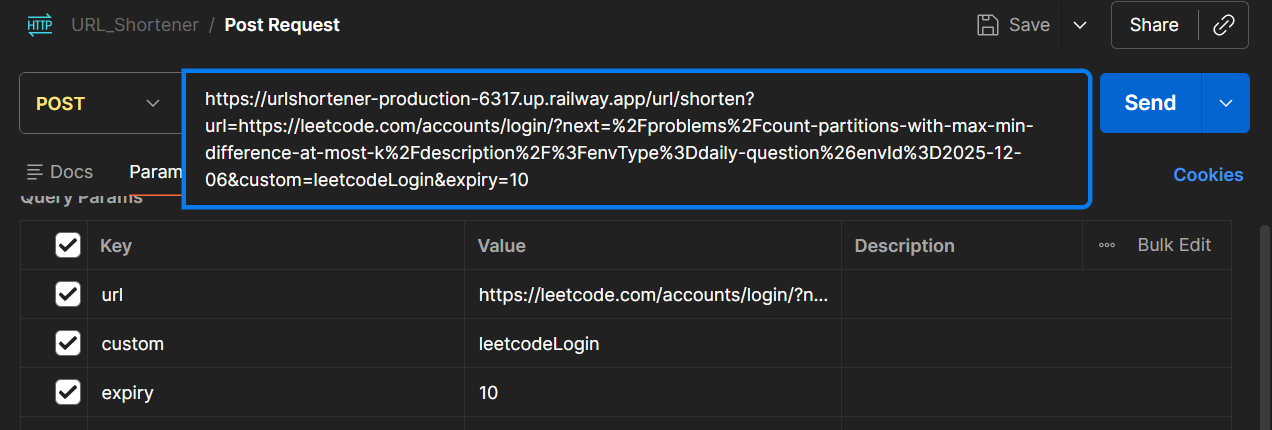
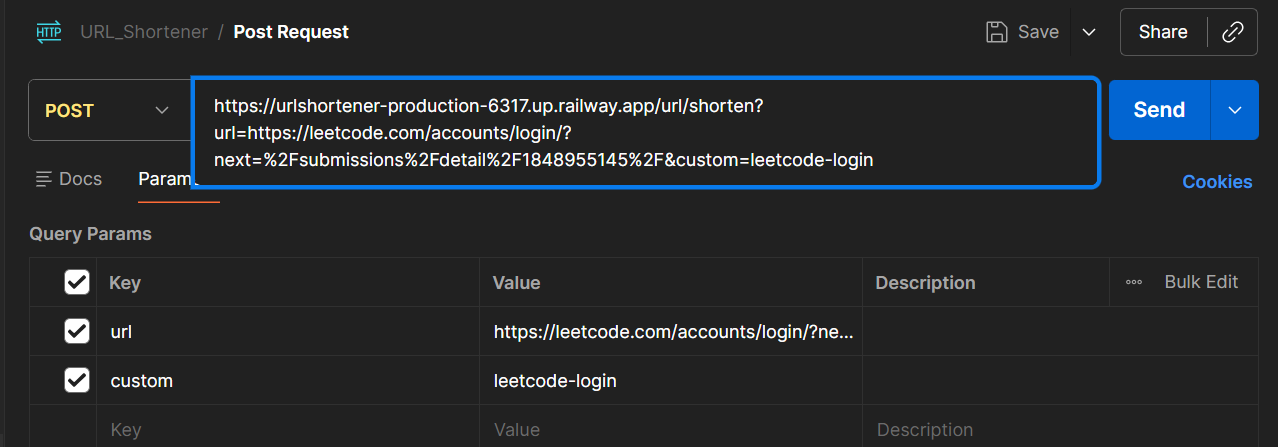
Update1

diff --git a/src/main/java/com/example/URL_Shortener/service/UrlServiceImpl.java b/src/main/java/com/example/URL_Shortener/service/UrlServiceImpl.java
@@ -32,7 +32,7 @@ public class UrlServiceImpl implements UrlService {
     }
 
     @Override
-    public String createShortUrl(String longUrl, String customCode, int expiryMinutes) {
+    public String createShortUrl(String longUrl, String customCode) {
         if (!isValidUrl(longUrl)) {
             throw new RuntimeException("Invalid URL. Must start with http:// or https://");
         }
@@ -48,7 +48,7 @@ public class UrlServiceImpl implements UrlService {
             shortUrl = generateCode();
         }
 
-        LocalDateTime expiryTime = LocalDateTime.now().plusMinutes(expiryMinutes);
+        LocalDateTime expiryTime = LocalDateTime.now().plusMinutes(10);
         map.put(shortUrl, new UrlData(longUrl, expiryTime));
 
         String host = ServletUriComponentsBuilder.fromCurrentContextPath()

diff --git a/src/main/java/com/example/URL_Shortener/controller/UrlController.java b/src/main/java/com/example/URL_Shortener/controller/UrlController.java
@@ -21,7 +21,7 @@ public class UrlController {
             @RequestParam(required = false) String custom,
             @RequestParam(defaultValue = "10") int expiry) {
 
-        String shortUrl = urlService.createShortUrl(url, custom, expiry);
+        String shortUrl = urlService.createShortUrl(url, custom);
         return ResponseEntity.status(HttpStatus.CREATED).body(shortUrl);
     }
 

diff --git a/src/main/java/com/example/URL_Shortener/service/UrlService.java b/src/main/java/com/example/URL_Shortener/service/UrlService.java
@@ -4,7 +4,7 @@ import org.springframework.stereotype.Service;
 
 @Service
 public interface UrlService {
-    String createShortUrl(String longUrl, String customCode, int expiryMinutes);
+    String createShortUrl(String longUrl, String customCode);
     String getOriginalUrl(String url);
     String displayAllUrl();
     String deleteUrl(String url);

diff --git a/README.md b/README.md
@@ -5,7 +5,7 @@ A simple and fast backend application that converts long URLs into short shareab
 🚀 REST API Endpoints
 
 🔹 Create Short URL
-POST /url/shorten?url=<longUrl>&custom=<optionalCode>&expiry=<minutes>
+POST /url/shorten?url=<longUrl>&custom=<optionalCode>
 
 🔹 Redirect to Original URL
 GET /url/{shortCode}
@@ -39,17 +39,16 @@ GET /url/{shortCode}
 | Parameter | Required | Description |
 |----------|----------|-------------|
 | url | ✔ | Full URL to shorten (must start with http/https) |
-| expiry | ✔ | Expiry time in minutes |
 | custom | ❌ | Your custom short code |
 
 Example:
 
-https://urlshortener-production-6317.up.railway.app/url/shorten?url=https://leetcode.com/accounts/login/?next=%2Fproblems%2Fcount-partitions-with-max-min-difference-at-most-k%2Fdescription%2F%3FenvType%3Ddaily-question%26envId%3D2025-12-06&custom=leetcodeLogin&expiry=10
+https://urlshortener-production-6317.up.railway.app/url/shorten?url=https://leetcode.com/accounts/login/?next=%2Fproblems%2Fcount-partitions-with-max-min-difference-at-most-k%2Fdescription%2F%3FenvType%3Ddaily-question%26envId%3D2025-12-06&custom=leetcode-login
 
 Example Response:
 
-http://urlshortener-production-6317.up.railway.app/url/leetcodeLogin  
-(valid for 10 minutes, as we mentioned the expiry time)
+http://urlshortener-production-6317.up.railway.app/url/leetcode-login  
+(By default it Will be valid for 10 minutes)
 
 
 
